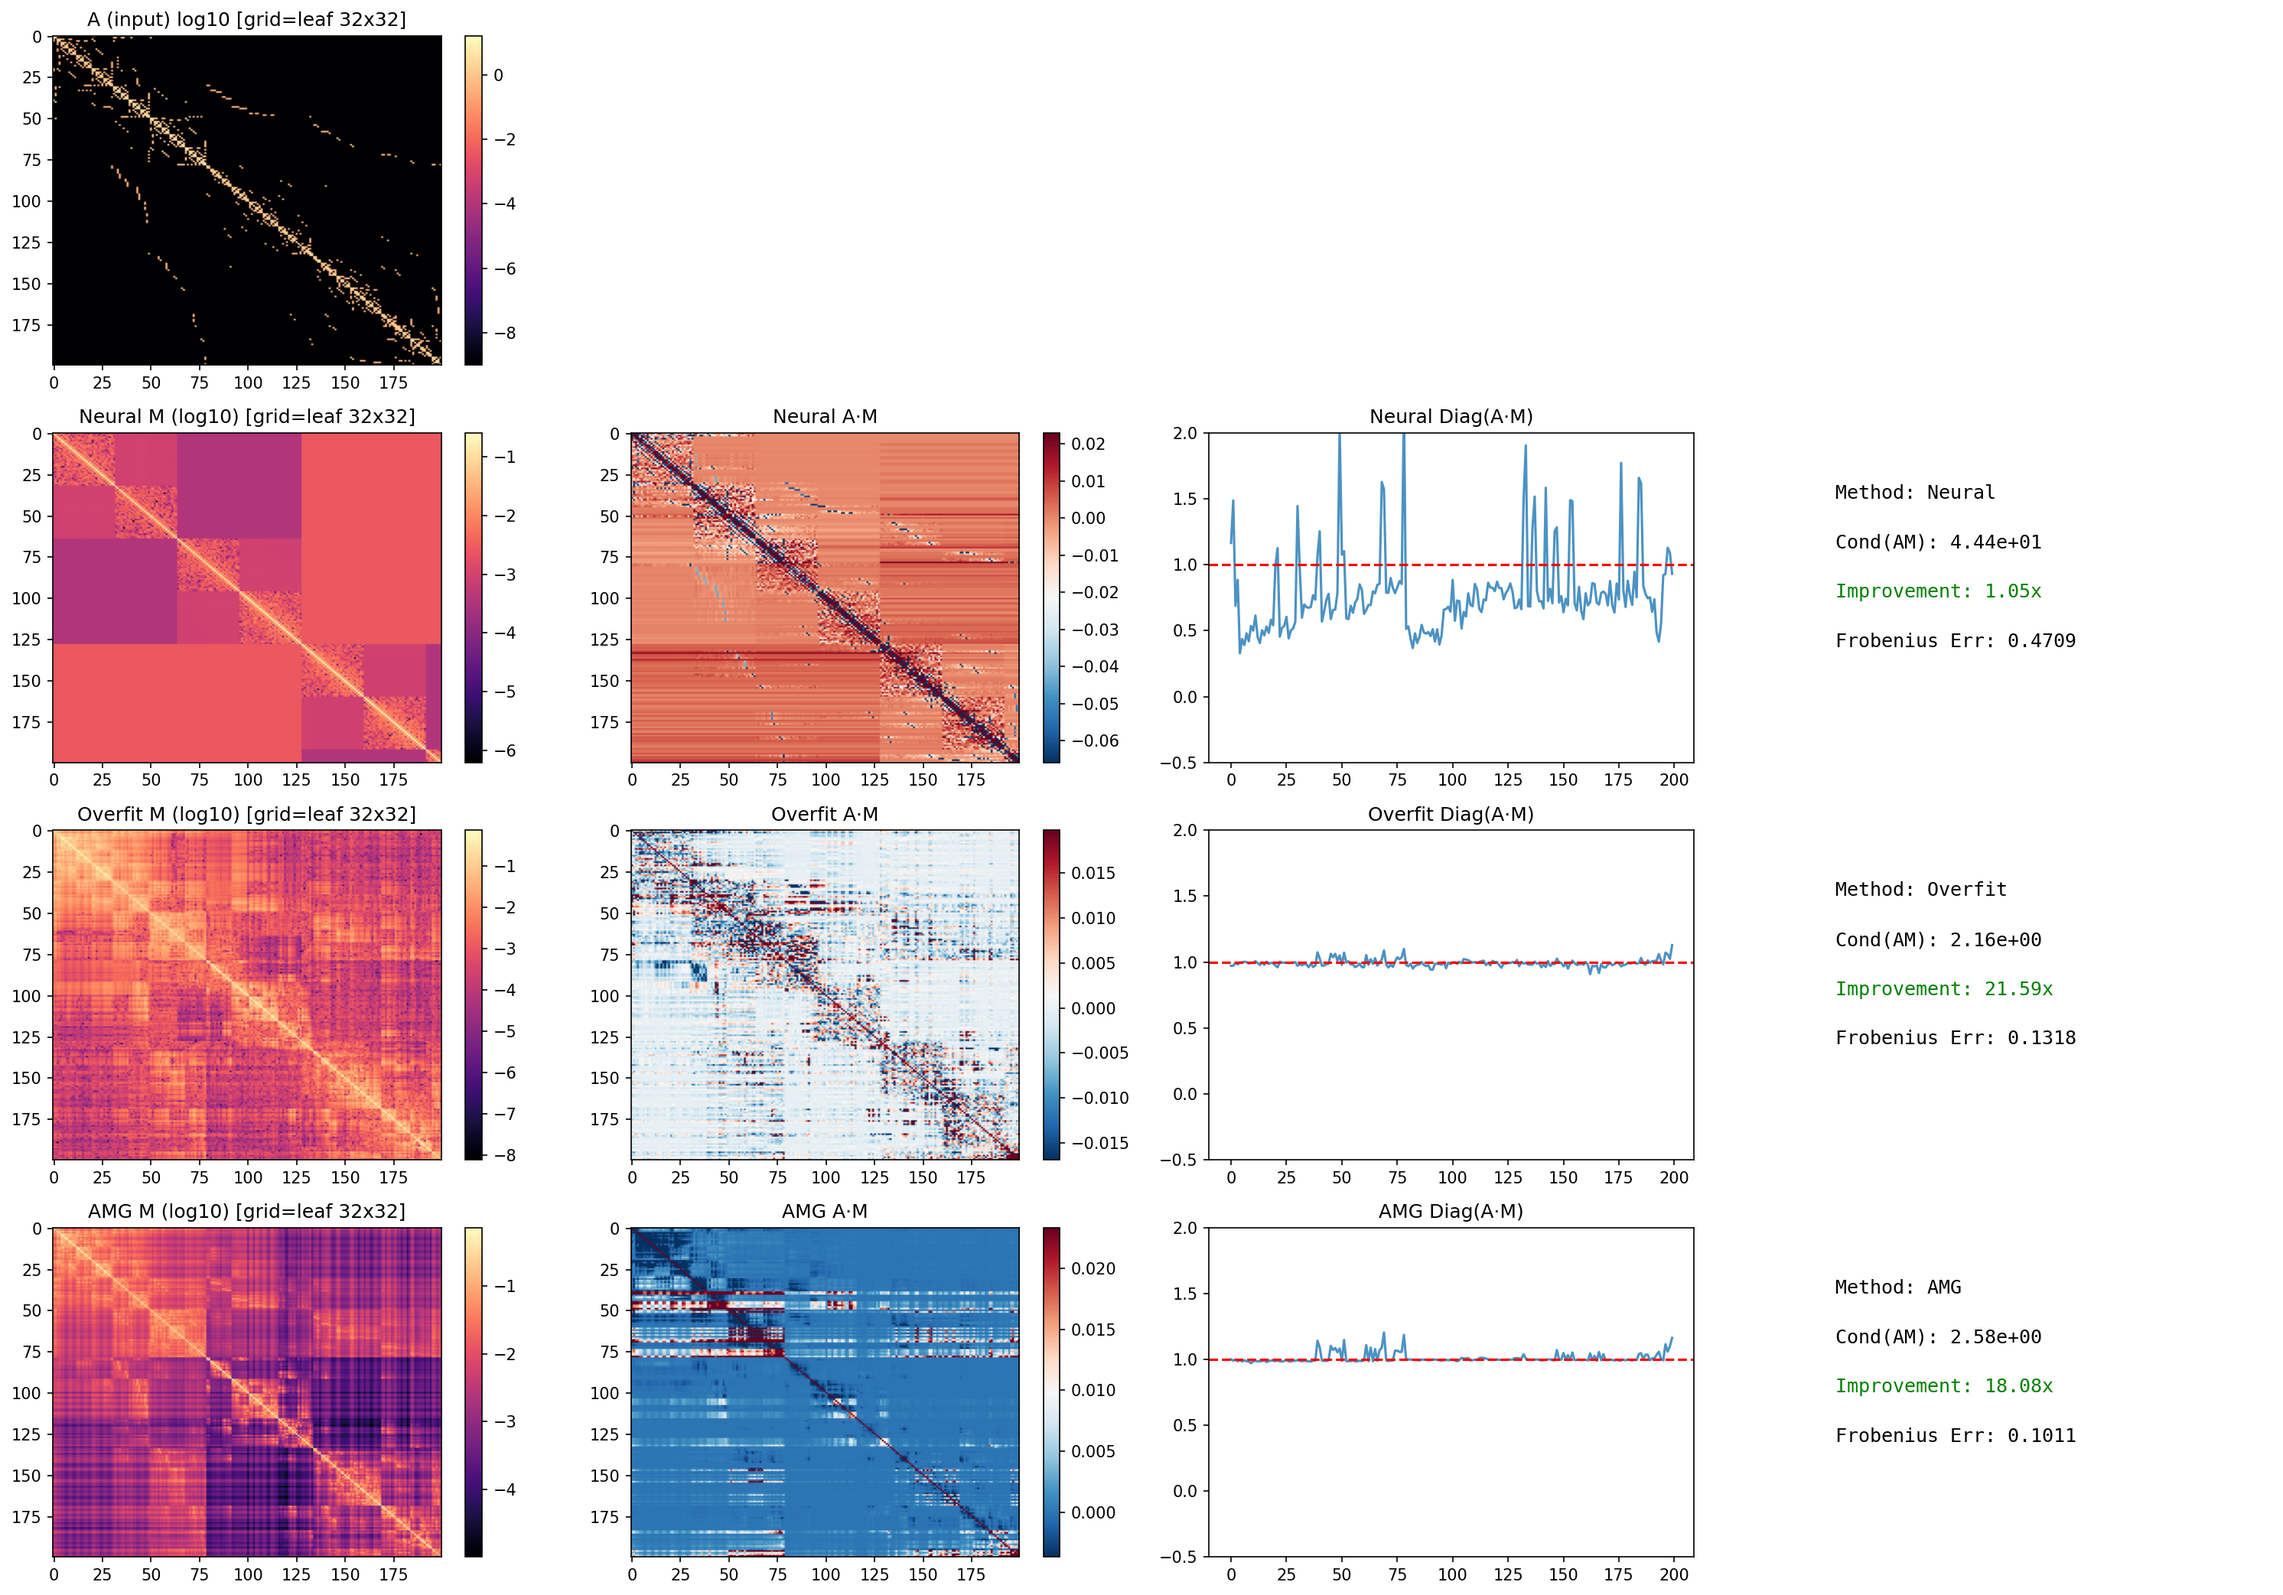
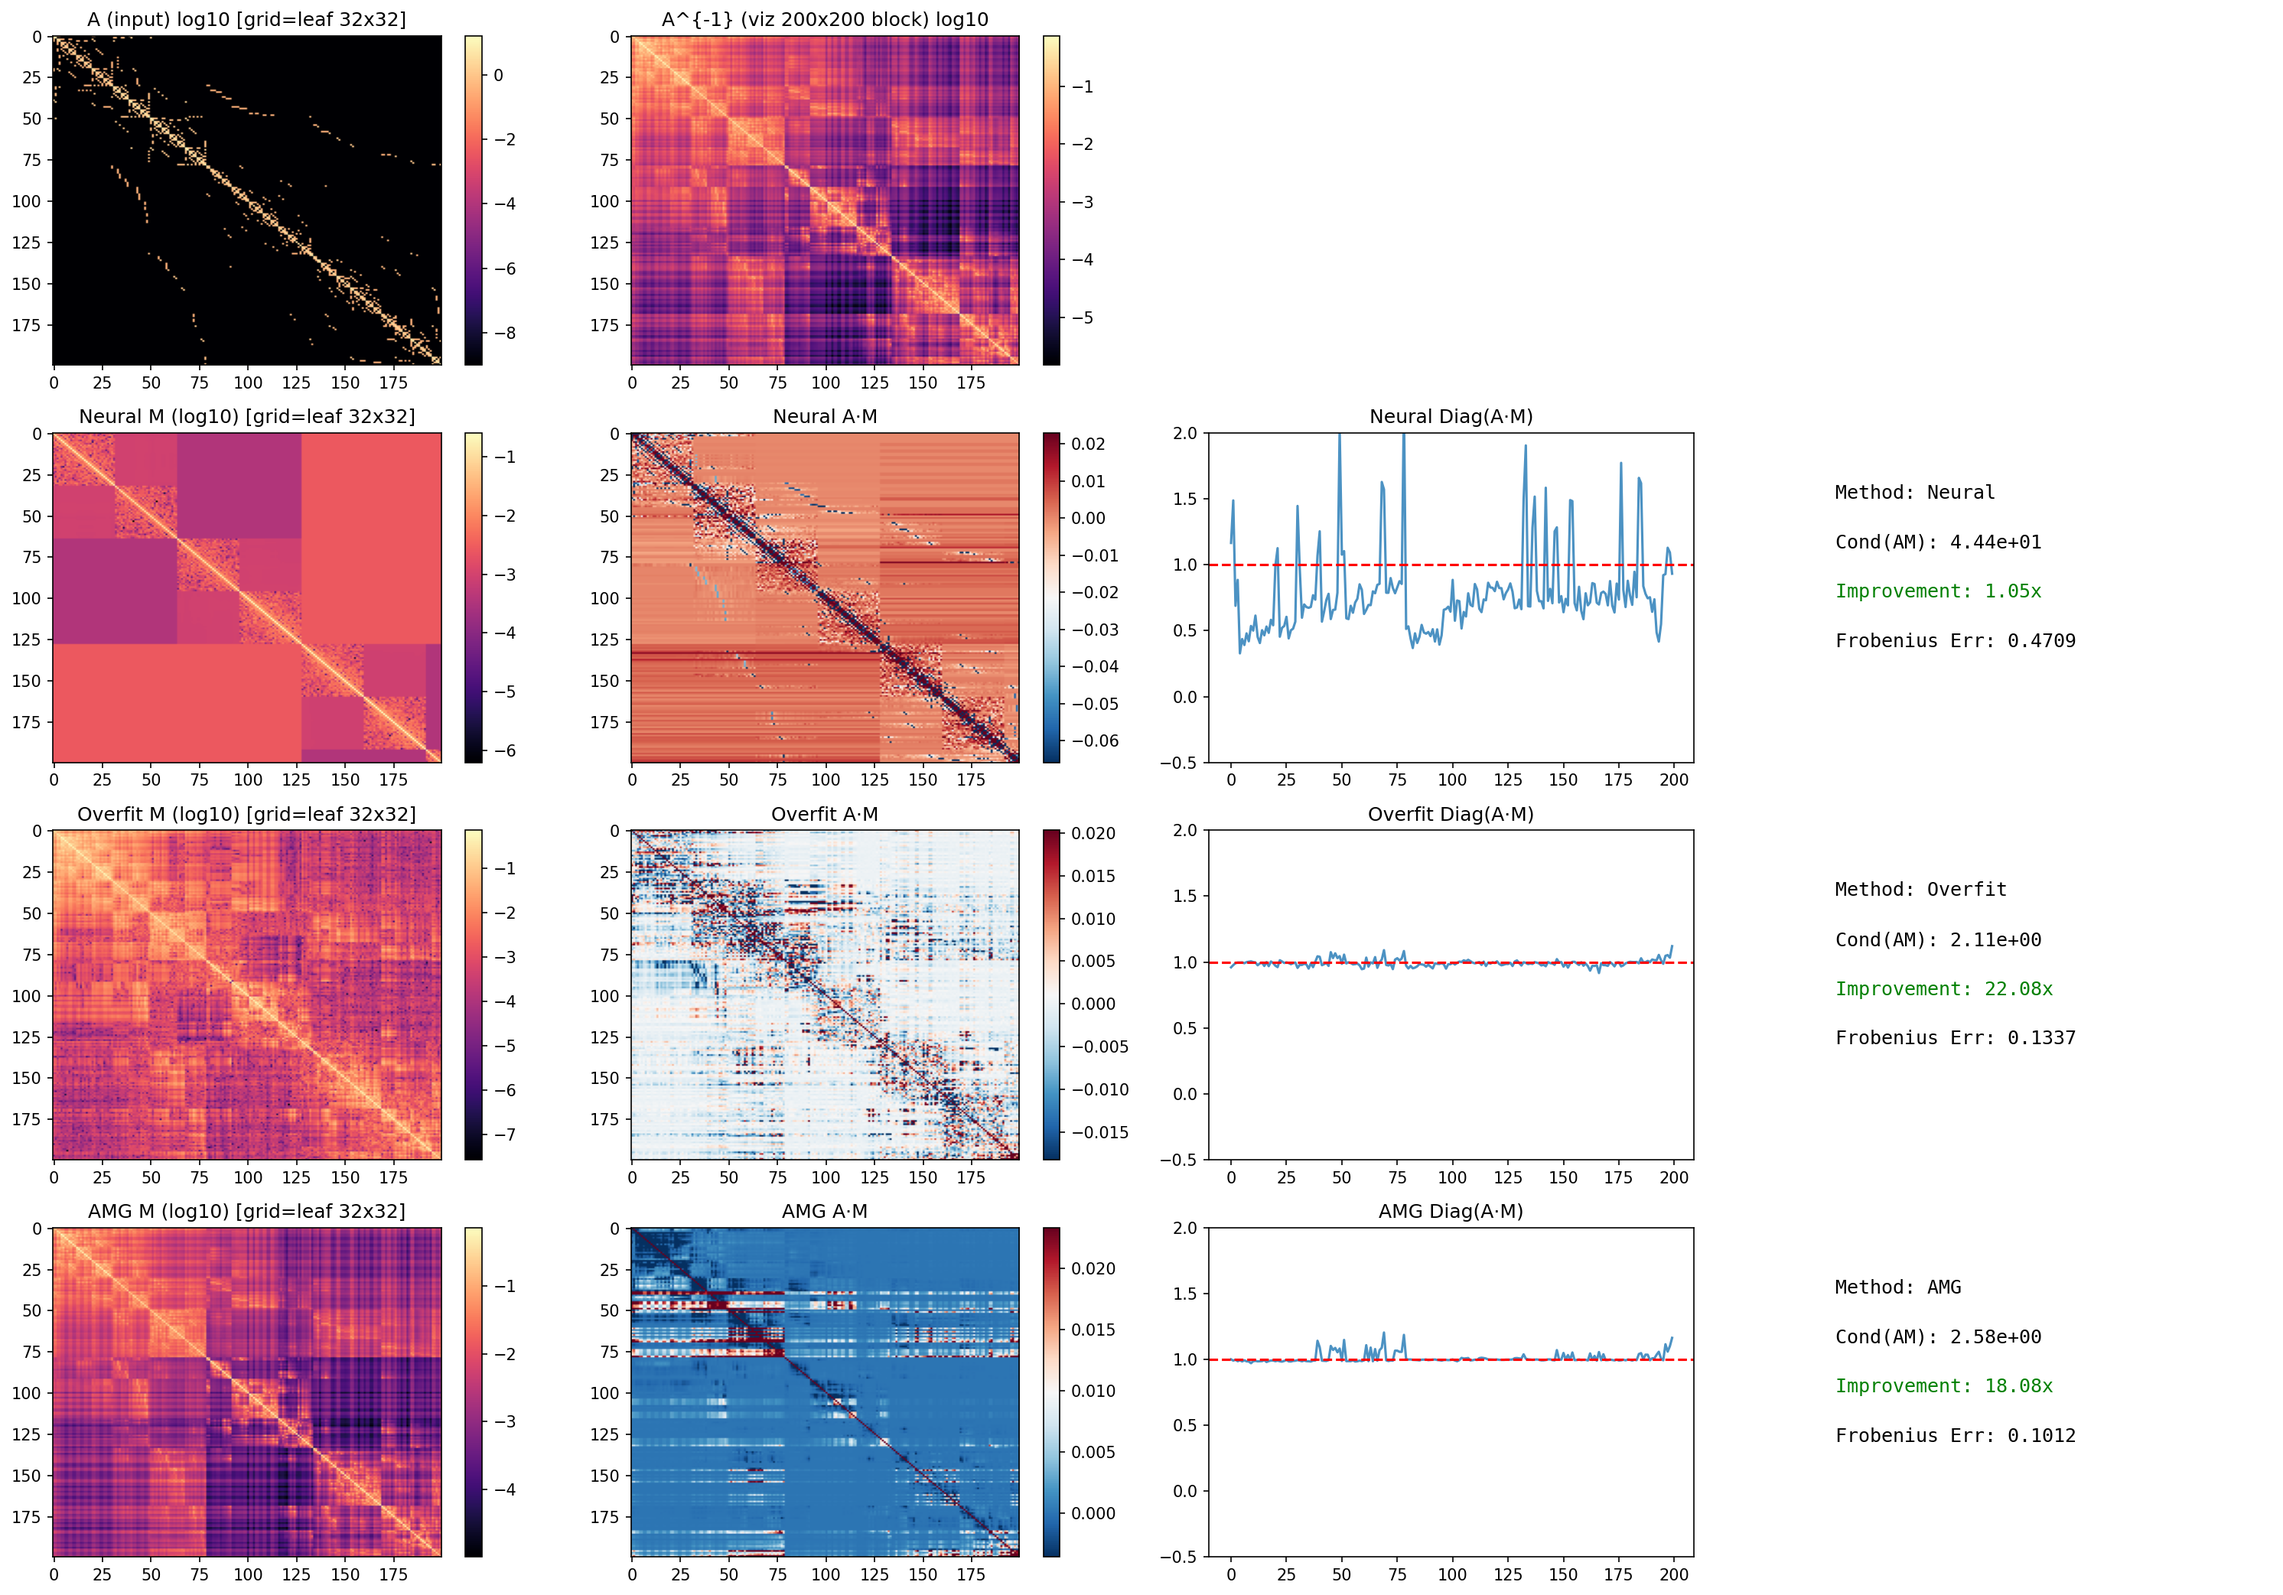
rank decay analysis for HODLR, not good, switching to HSS

Changed region(s): [[0.2493, 0.0, 0.4675, 0.2494], [0.2805, 0.4988, 0.4987, 0.7482], [0.0, 0.4988, 0.187, 0.717]]

diff --git a/Assets/Scripts/RankDecay.py b/Assets/Scripts/RankDecay.py
@@ -1,0 +1,224 @@
+"""
+RankDecay: SVD of A chunked into HODLR blocks.
+Uses the same data loading and frame as InspectModel; chunks the system matrix A
+into HODLR blocks (leaf-aligned sizes), computes SVD on each block, and plots
+singular value decay to show how rank required varies with block size and
+distance from the diagonal.
+"""
+import numpy as np
+import matplotlib.pyplot as plt
+import argparse
+import math
+from pathlib import Path
+
+from NeuralPreconditioner import FluidGraphDataset
+
+
+LEAF_SIZE = 32
+
+
+def get_hodlr_block_sizes(n, leaf_size=32):
+    """Return list of (level_idx, block_size) for HODLR off-diagonal levels.
+    Level 0 = coarsest (largest block_size, n/2); level num_levels-1 = finest (block_size=leaf_size).
+    Requires n = leaf_size * 2^depth for some depth.
+    """
+    if n % leaf_size != 0:
+        return []
+    num_blocks = n // leaf_size
+    if num_blocks & (num_blocks - 1) != 0:
+        return []
+    num_levels = int(round(math.log2(num_blocks)))
+    return [
+        (level_idx, leaf_size * (2 ** (num_levels - 1 - level_idx)))
+        for level_idx in range(num_levels)
+    ]
+
+
+def enumerate_off_diagonal_blocks(A, leaf_size=32):
+    """
+    Yield (level_idx, block_size, block_matrix, label) for each off-diagonal
+    HODLR block. block_matrix is the dense 2D slice of A.
+    """
+    n = A.shape[0]
+    levels = get_hodlr_block_sizes(n, leaf_size)
+    for level_idx, block_size in levels:
+        num_blocks_at_level = n // block_size
+        num_pairs = num_blocks_at_level // 2
+        for p in range(num_pairs):
+            i_start = p * 2 * block_size
+            j_start = (p * 2 + 1) * block_size
+            # Upper block: rows [i_start : i_start+block_size], cols [j_start : j_start+block_size]
+            block_upper = A[i_start : i_start + block_size, j_start : j_start + block_size]
+            label = f"L{level_idx} bs={block_size} pair={p}"
+            yield level_idx, block_size, block_upper.copy(), label
+
+
+def enumerate_diagonal_blocks(A, leaf_size=32):
+    """Yield (block_idx, block_matrix) for each diagonal leaf block."""
+    n = A.shape[0]
+    num_blocks = n // leaf_size
+    for b in range(num_blocks):
+        start = b * leaf_size
+        block = A[start : start + leaf_size, start : start + leaf_size]
+        yield b, block.copy()
+
+
+def compute_svd_decay(block):
+    """Return array of singular values (descending)."""
+    U, s, Vh = np.linalg.svd(block, full_matrices=False)
+    return np.asarray(s, dtype=float)
+
+
+def main():
+    parser = argparse.ArgumentParser(
+        description="SVD rank decay of A in HODLR blocks (same data/frame as InspectModel)."
+    )
+    script_dir = Path(__file__).parent
+    default_data = script_dir.parent / "StreamingAssets" / "TestData"
+
+    parser.add_argument("--data_folder", type=str, default=str(default_data))
+    parser.add_argument("--frame", type=int, default=600,
+                        help="Dataset frame index (same as InspectModel default).")
+    parser.add_argument("--viz_limit", type=int, default=0,
+                        help="Max size of A to use. Default 0 = full N.")
+    parser.add_argument("--output", "-o", type=str, default=None,
+                        help="Path to save plot (default: script_dir/rank_decay_plot.png)")
+    args = parser.parse_args()
+
+    # 1. Load data (same as InspectModel)
+    print(f"Loading data from {args.data_folder}")
+    dataset = FluidGraphDataset([Path(args.data_folder)])
+    batch = dataset[args.frame]
+    num_nodes_real = int(batch["num_nodes"])
+    A_sparse = np.zeros((num_nodes_real, num_nodes_real))
+    row, col = batch["edge_index"].numpy()
+    val = batch["edge_values"].numpy()
+    A_sparse[row, col] = val
+    n = num_nodes_real
+    print(f"Frame {args.frame}: N={n}")
+
+    # Full N: pad to power-of-2 multiple of leaf_size so all layers 32, 64, 128, ... exist
+    viz_n = (args.viz_limit if args.viz_limit > 0 else n)
+    viz_n = min(viz_n, n)
+    num_blocks_min = (viz_n + LEAF_SIZE - 1) // LEAF_SIZE
+    depth = int(math.ceil(math.log2(num_blocks_min)))
+    padded_n = LEAF_SIZE * (2 ** depth)  # >= viz_n, all HODLR levels 32, 64, 128, 256, 512, ...
+    A = np.zeros((padded_n, padded_n), dtype=np.float64)
+    A[:viz_n, :viz_n] = A_sparse[:viz_n, :viz_n]
+    for i in range(viz_n, padded_n):
+        A[i, i] = 1.0
+    n_work = padded_n
+    print(f"Working matrix size: {n_work} (full N={n}, padded for {depth} levels)")
+
+    levels = get_hodlr_block_sizes(n_work, LEAF_SIZE)
+    if not levels:
+        print("N is not a power-of-2 multiple of leaf_size; cannot run HODLR block enumeration.")
+        return
+
+    # Off-diagonal: group by (level_idx, block_size), collect singular values
+    from collections import defaultdict
+    off_diag_by_level = defaultdict(list)
+    for level_idx, block_size, block_mat, label in enumerate_off_diagonal_blocks(A, LEAF_SIZE):
+        s = compute_svd_decay(block_mat)
+        off_diag_by_level[(level_idx, block_size)].append((label, s))
+
+    # Fit exponential decay with a=1 (y = exp(-x/tau))
+    THRESH = 1e-3
+    layer_indices = []
+    tau_exp = []
+    block_sizes = []
+    print("\n--- Exponential fit (a=1) to singular values > 1e-3 ---")
+    for level_idx, block_size in levels:
+        key = (level_idx, block_size)
+        if key not in off_diag_by_level:
+            continue
+        entries = off_diag_by_level[key]
+        max_len = max(len(s) for _, s in entries)
+        avg_s = np.zeros(max_len)
+        cnt = np.zeros(max_len)
+        for _, s in entries:
+            avg_s[: len(s)] += s
+            cnt[: len(s)] += 1
+        avg_s = np.where(cnt > 0, avg_s / np.maximum(cnt, 1), 0.0)
+        x = np.arange(1, len(avg_s) + 1, dtype=float)
+        mask = avg_s > THRESH
+        if mask.sum() < 2:
+            print(f"  L{level_idx} bs={block_size}: too few points above {THRESH}, skipping")
+            continue
+        x_fit = x[mask]
+        y_fit = avg_s[mask]
+        log_y = np.log(y_fit + 1e-300)
+        # Exponential with a=1: log(y) = -x/tau  ->  tau = -1/b1
+        b1_exp = np.sum(x_fit * log_y) / (np.sum(x_fit**2) + 1e-300)
+        tau = -1.0 / b1_exp if b1_exp < 0 else np.nan
+        layer_indices.append(level_idx)
+        tau_exp.append(tau)
+        block_sizes.append(block_size)
+        print(f"  L{level_idx} bs={block_size}: tau={tau:.4e}")
+
+    # Global fit: tau = bs^p  ->  log(tau) = p*log(bs)  (no intercept)
+    valid = np.array([np.isfinite(t) and t > 0 for t in tau_exp], dtype=bool)
+    if np.sum(valid) >= 2:
+        bs_arr = np.array(block_sizes, dtype=float)[valid]
+        tau_arr = np.array(tau_exp, dtype=float)[valid]
+        log_bs = np.log(bs_arr)
+        log_tau = np.log(tau_arr)
+        p = np.sum(log_bs * log_tau) / (np.sum(log_bs**2) + 1e-300)
+        print(f"\n  Global fit tau = bs^p  ->  p = {p:.4e}")
+    else:
+        print("\n  Global fit tau = bs^p: skipped (need tau>0 for at least 2 layers)")
+
+    # Plot: x = layer, y = tau (exponential characteristic rank)
+    fig, ax = plt.subplots(1, 1, figsize=(8, 5))
+    ax.plot(layer_indices, tau_exp, "o-", color="black", linewidth=1.5, markersize=8)
+    ax.set_xlabel("Layer")
+    ax.set_ylabel("tau (exponential decay scale)")
+    ax.set_title("Singular value decay: y=exp(-x/tau), s > 1e-3")
+    ax.grid(True, alpha=0.3)
+    plt.tight_layout()
+    out_path = args.output or (script_dir / "rank_decay_plot.png")
+    out_path = Path(out_path)
+    plt.savefig(out_path, dpi=150, bbox_inches="tight")
+    print(f"Plot saved to {out_path}")
+    plt.show()
+
+    # Rank decay by layer: all layers on one graph, normalized to max per layer, full rainbow colormap
+    print("\n--- Normalization max (per layer, for rank decay plot) ---")
+    cmap = plt.get_cmap("viridis")  # full rainbow
+    n_layers = len(levels)
+    fig2, ax2 = plt.subplots(1, 1, figsize=(8, 5))
+    for i, (level_idx, block_size) in enumerate(levels):
+        key = (level_idx, block_size)
+        if key not in off_diag_by_level:
+            continue
+        entries = off_diag_by_level[key]
+        max_len = max(len(s) for _, s in entries)
+        avg_s = np.zeros(max_len)
+        cnt = np.zeros(max_len)
+        for _, s in entries:
+            avg_s[: len(s)] += s
+            cnt[: len(s)] += 1
+        avg_s = np.where(cnt > 0, avg_s / np.maximum(cnt, 1), 0.0)
+        s_max = avg_s.max()
+        print(f"  L{level_idx} bs={block_size}: max = {s_max:.4e}")
+        if s_max > 0:
+            avg_s = avg_s / s_max
+        rank_idx = np.arange(1, len(avg_s) + 1, dtype=float)
+        color = cmap(i / max(1, n_layers - 1)) if n_layers > 1 else cmap(0)
+        ax2.plot(rank_idx, avg_s, "o-", color=color, linewidth=1, markersize=3, label=f"L{level_idx} bs={block_size}")
+    ax2.set_xlabel("Singular value index (rank)")
+    ax2.set_ylabel("Singular value (normalized to max per layer)")
+    ax2.set_title("Rank decay by layer")
+    ax2.set_xlim(0, 100)
+    ax2.set_ylim(0, 1)
+    ax2.legend(ncol=2, fontsize=8)
+    ax2.grid(True, alpha=0.3)
+    plt.tight_layout()
+    out_path_layers = script_dir / "rank_decay_layer8.png"
+    plt.savefig(out_path_layers, dpi=150, bbox_inches="tight")
+    print(f"Rank decay by layer saved to {out_path_layers}")
+    plt.show()
+
+
+if __name__ == "__main__":
+    main()

diff --git a/Assets/Scripts/InspectModel.py b/Assets/Scripts/InspectModel.py
@@ -439,6 +439,9 @@ def main():
     M_overfit_n = M_overfit[:viz_n, :viz_n]
     M_amg_n = M_amg[:viz_n, :viz_n]
 
+    # Approximate true inverse of the viz block (for comparison; only this block is inverted)
+    A_inv_viz = np.linalg.inv(A_viz_n)
+
     matrices = {
         "A (Input)": A_viz_n,
         "Neural M": M_neural_n,
@@ -449,12 +452,16 @@ def main():
     leaf_size = 32
 
     fig, axes = plt.subplots(4, 4, figsize=(20, 14))
-    # Row 0: A (input) with leaf grid to check alignment of 32x32 blocks with matrix structure
+    # Row 0: A (input) and A^{-1} (viz block)
     ax_a = axes[0, 0]
     im_a = ax_a.imshow(np.log10(np.abs(A_viz_n) + 1e-9), cmap='magma', aspect='auto')
     ax_a.set_title(f"A (input) log10 [grid=leaf {leaf_size}x{leaf_size}]")
     plt.colorbar(im_a, ax=ax_a)
-    for j in range(1, 4):
+    ax_ainv = axes[0, 1]
+    im_ainv = ax_ainv.imshow(np.log10(np.abs(A_inv_viz) + 1e-9), cmap='magma', aspect='auto')
+    ax_ainv.set_title(f"A^{{-1}} (viz {viz_n}x{viz_n} block) log10")
+    plt.colorbar(im_ainv, ax=ax_ainv)
+    for j in range(2, 4):
         axes[0, j].axis('off')
     # Row 1–3: Neural, Overfit, AMG (or placeholder when disabled)
     amg_label = "AMG (disabled)" if SKIP_AMG else "AMG"
